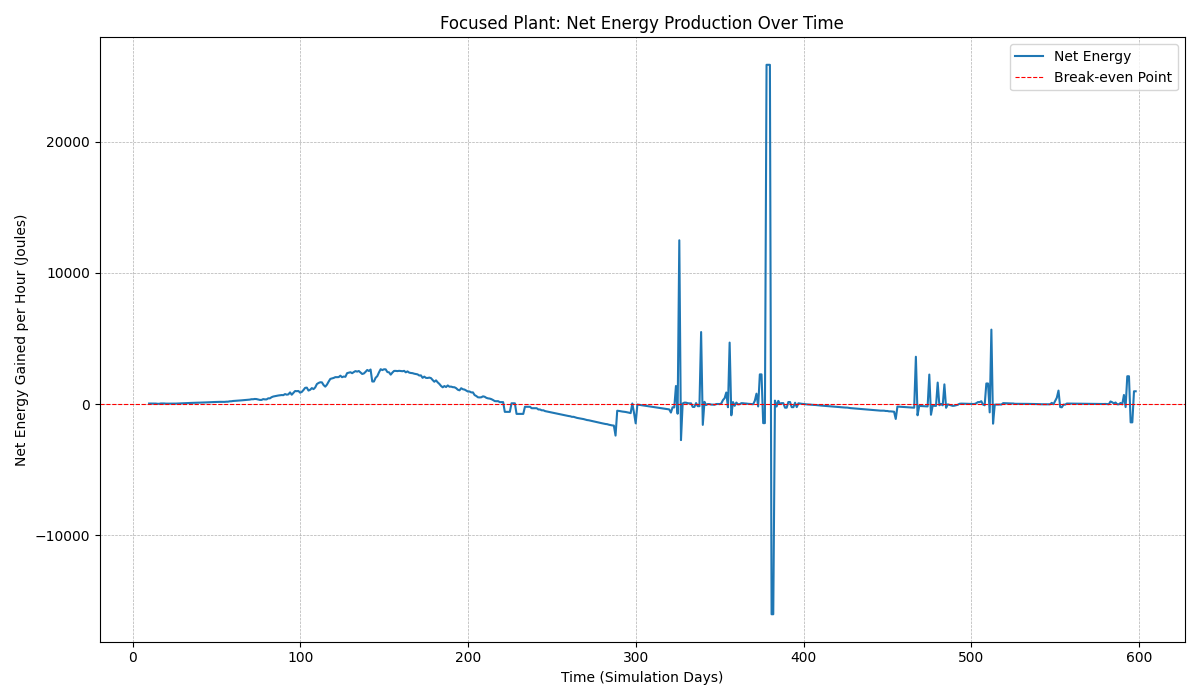
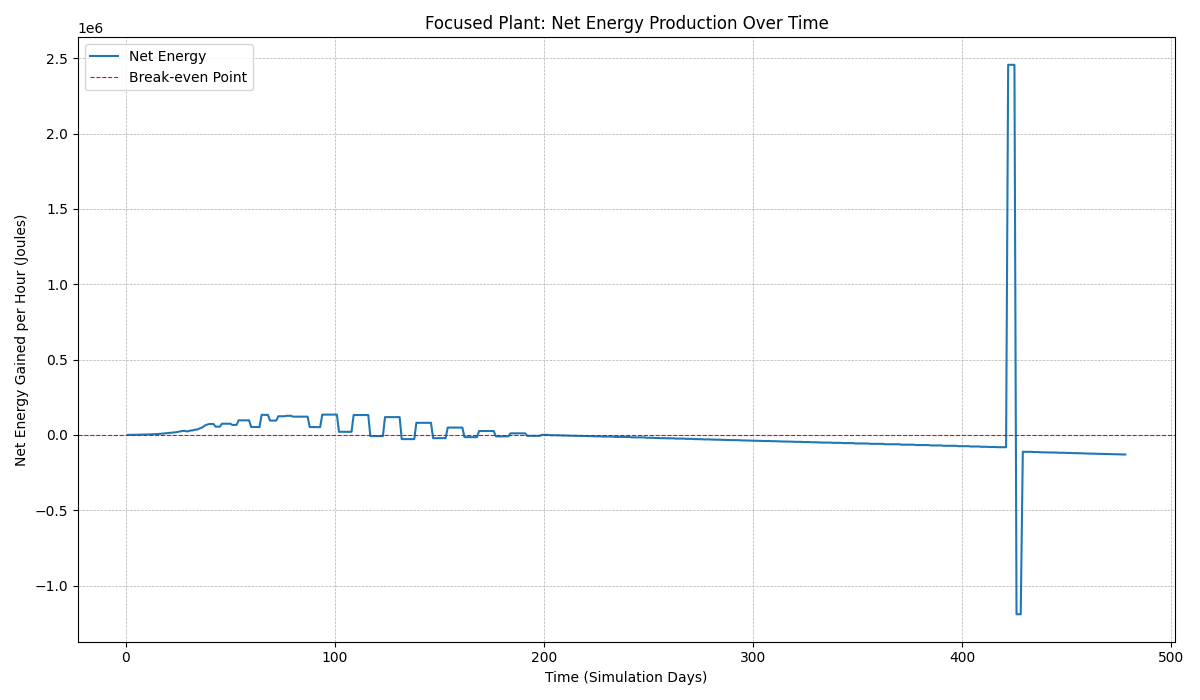
Halved PLANT_BASE_MAINTENANCE_RESPIRATION_PER_AREA which fixed the issue. Still need way more debugging because plant growth is not realistic.

diff --git a/constants.py b/constants.py
@@ -145,7 +145,7 @@ PLANT_PHOTOSYNTHESIS_PER_AREA = (SOLAR_IRRADIANCE_W_PER_M2 * PHOTOSYNTHETIC_EFFI
 # The base rate of energy consumption for maintenance respiration at the reference temperature.
 # This is based on the total 2D area of the plant's canopy and roots.
 # Units: J/s/cm^2 (Joules per second per square centimeter of total biomass area)
-PLANT_BASE_MAINTENANCE_RESPIRATION_PER_AREA = 0.00075
+PLANT_BASE_MAINTENANCE_RESPIRATION_PER_AREA = 0.000375
 
 # The Q10 temperature coefficient for respiration. A value of 2.0 means the rate
 # doubles for every 10°C increase in temperature.
